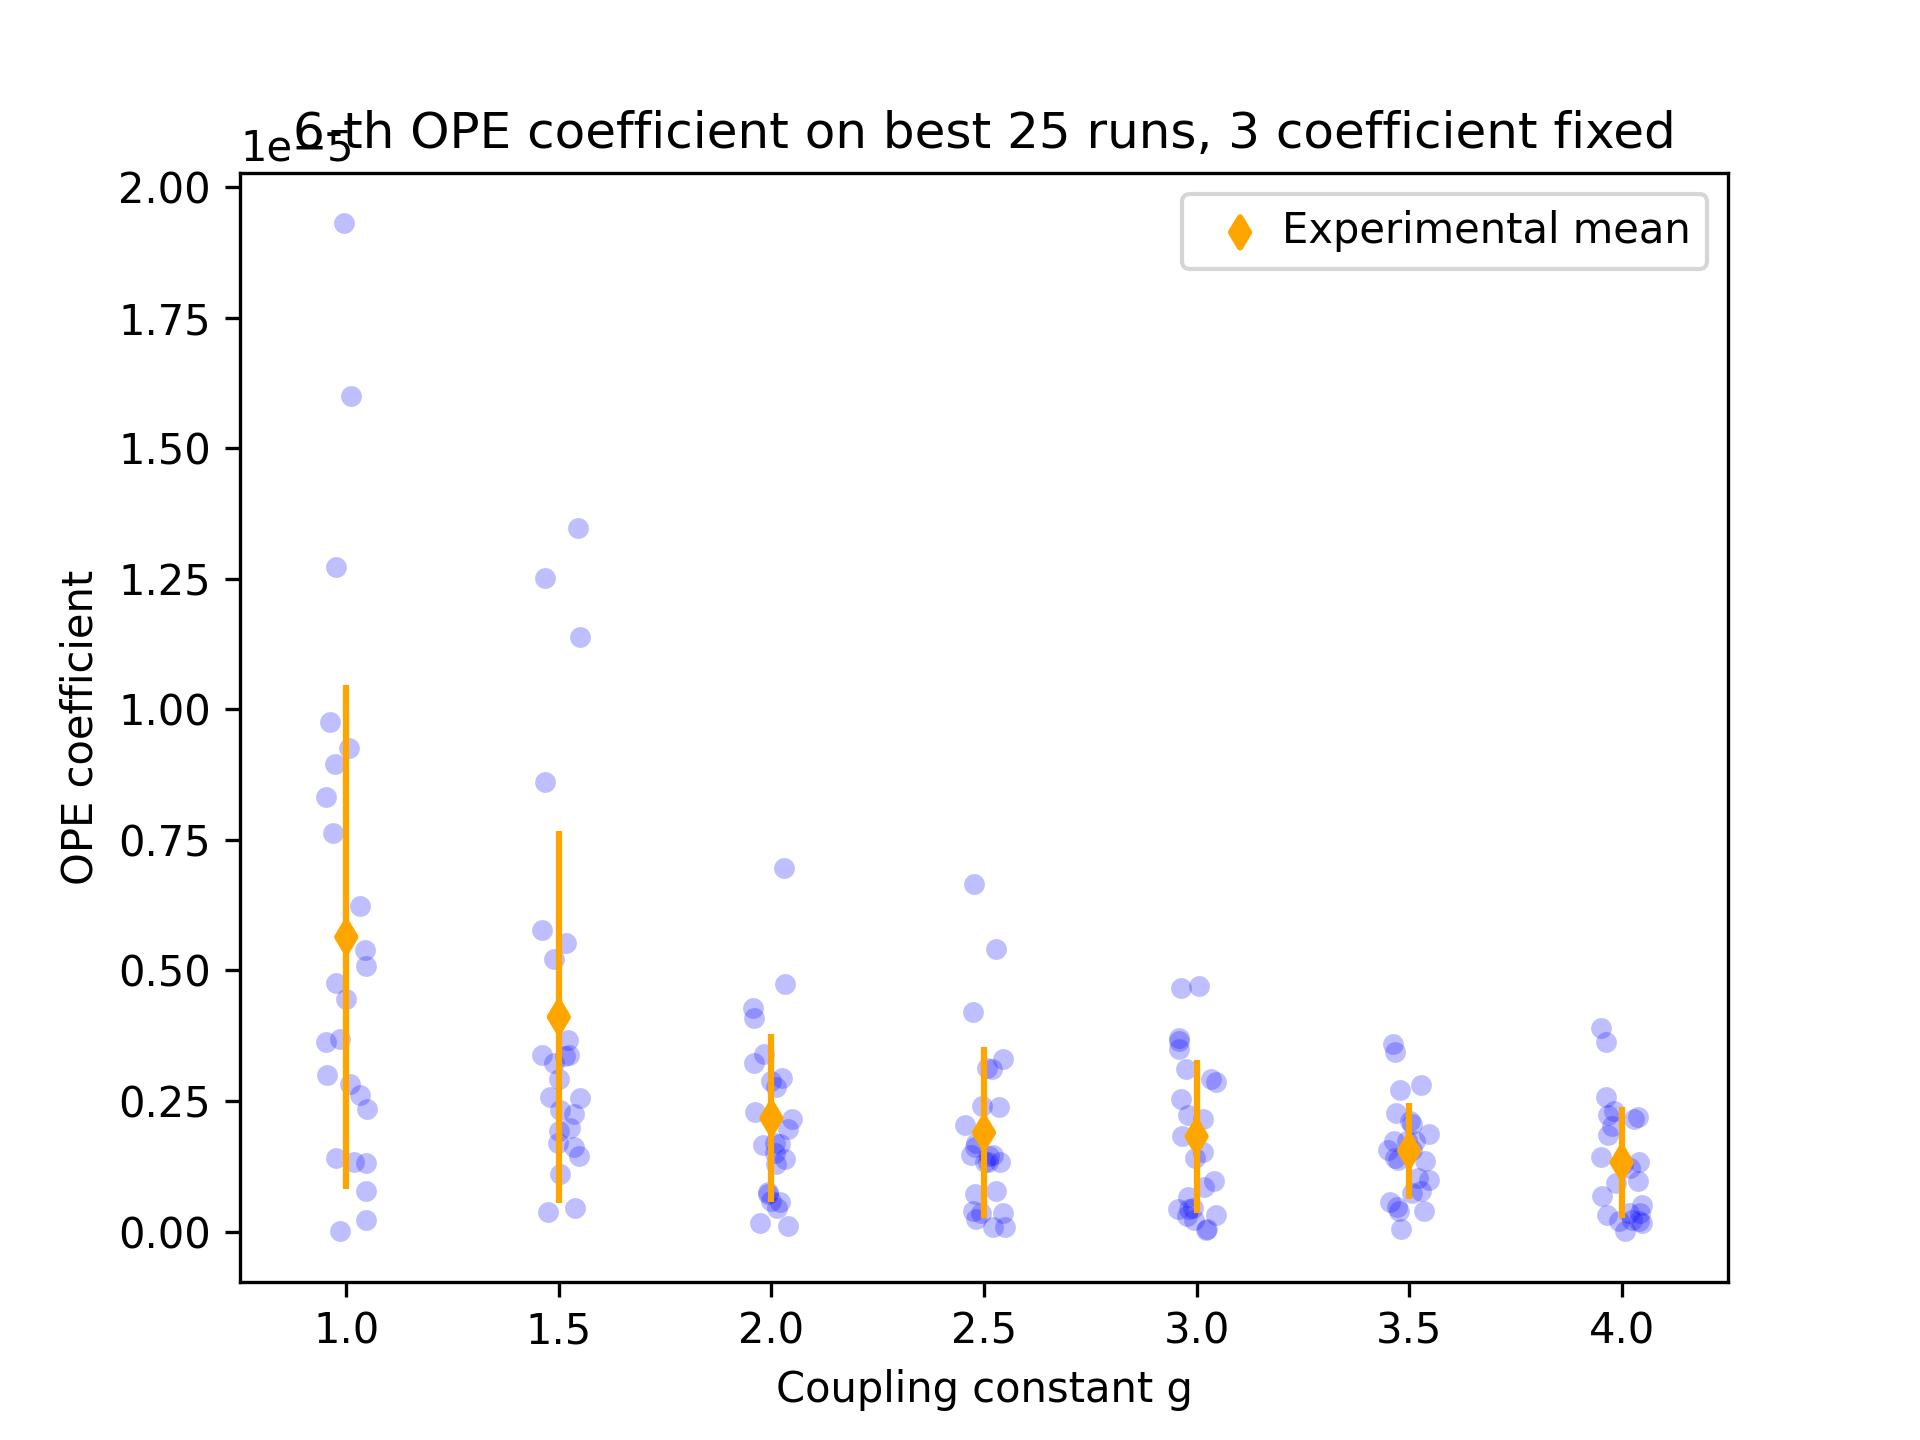
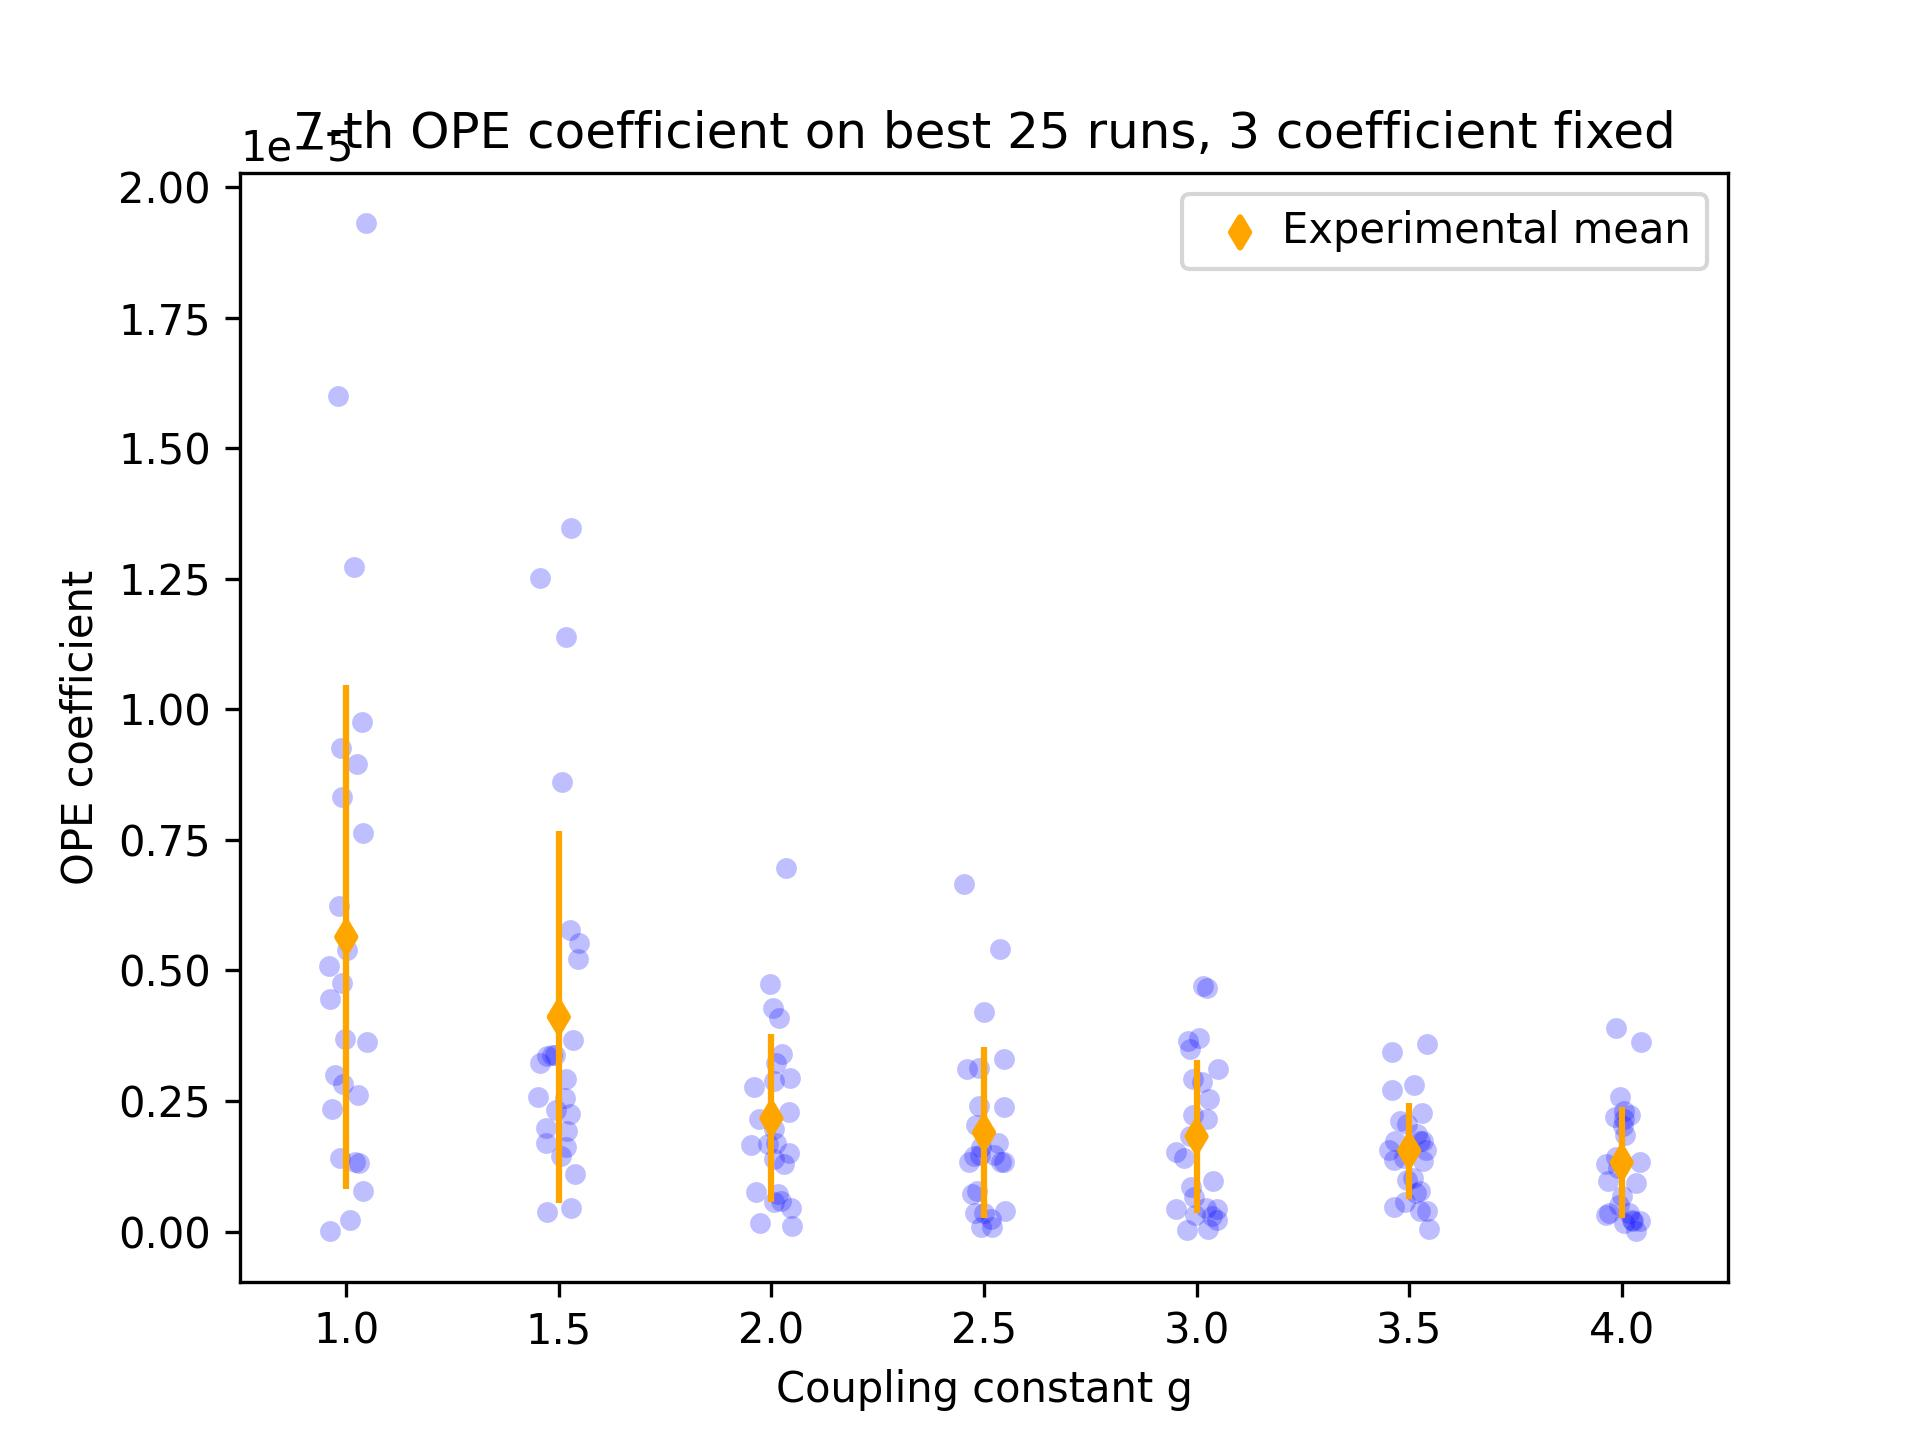
Fix a graph title

diff --git a/analyze_BPS_results.py b/analyze_BPS_results.py
@@ -12,8 +12,8 @@ import os
 import re
 
 
-OPE_first = 9
-OPE_second = 10
+OPE_first = 4
+OPE_second = 5
 best_rew_to_take = 25
 best_reward = 0.
 delta_len = 10
@@ -199,7 +199,7 @@ for oper in range(lambda_fix, lambda_len):
     plt.xlabel('Coupling constant g')
     plt.ylabel('OPE coefficient')
     #plt.yscale('log')
-    plt.title(f'{oper}-th OPE coefficient on best {best_rew_to_take} runs, {lambda_fix} coefficient fixed')
+    plt.title(f'{oper+1}-th OPE coefficient on best {best_rew_to_take} runs, {lambda_fix} coefficient fixed')
     plt.savefig(join(analysis_path, f'OPE{oper+1}_analysis_best{best_rew_to_take}.jpg'), dpi=300)
 
     #plt.show()
